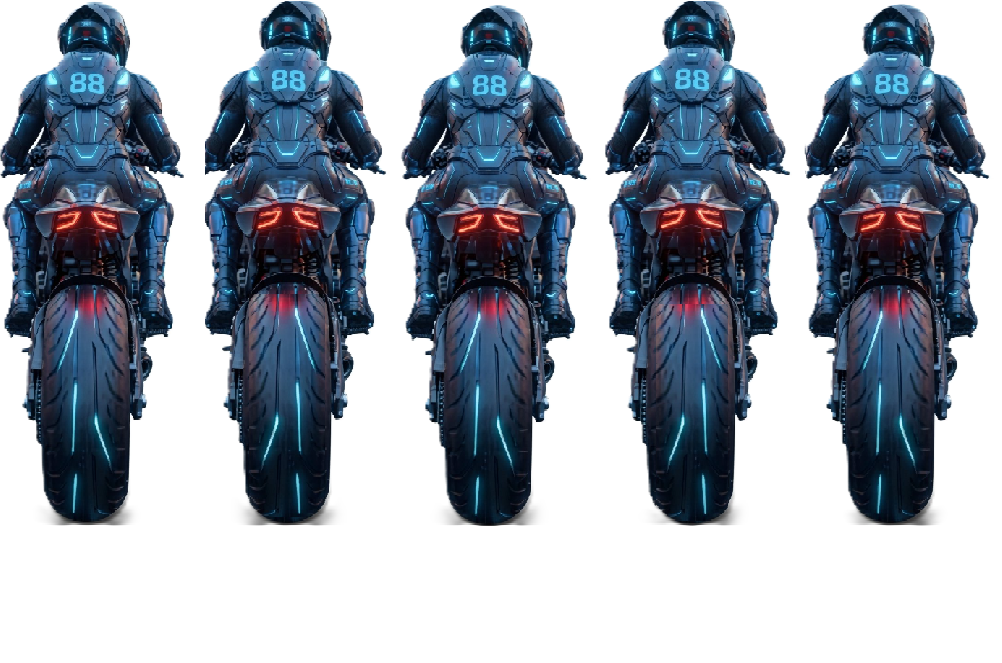
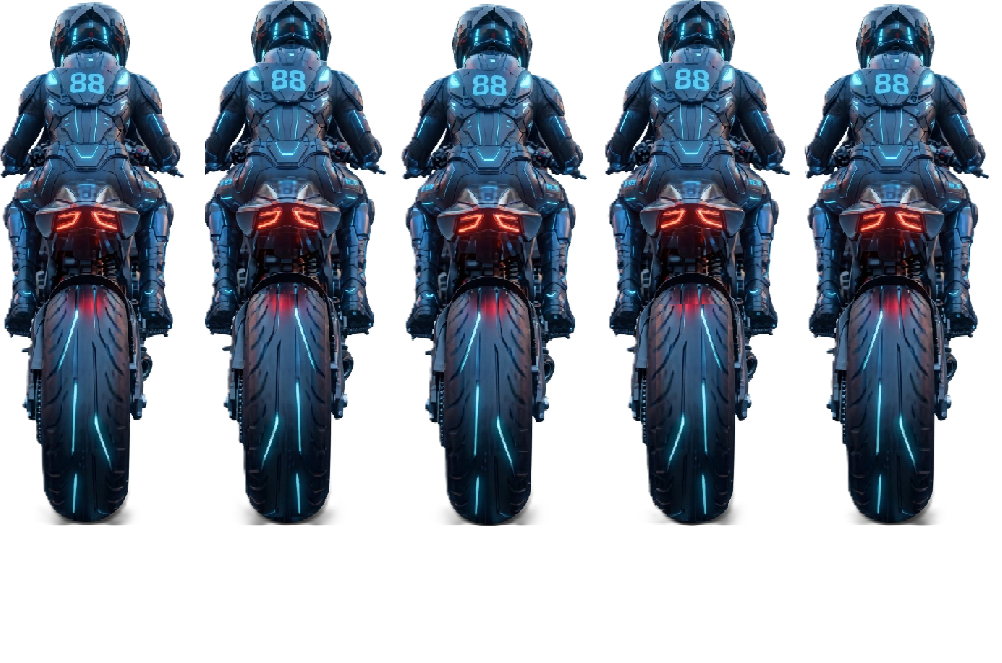
Add files via upload

diff --git a/duaxe.html b/duaxe.html
@@ -27,6 +27,26 @@ body { margin: 0; overflow: hidden; background: #0b1329; font-family: -apple-sys
 
 #flash-screen { position: fixed; top: 0; left: 0; width: 100vw; height: 100vh; background: rgba(255, 0, 0, 0); z-index: 99; pointer-events: none; transition: background 0.15s; }
 
+/* MÀN HÌNH BẮT ĐẦU (START SCREEN) ĐỂ KÍCH HOẠT GYRO VÀ ÂM THANH */
+#start-screen {
+position: fixed; top: 0; left: 0; width: 100vw; height: 100vh;
+background: radial-gradient(circle, #1e293b 0%, #0b1329 100%);
+z-index: 2000; display: flex; flex-direction: column; justify-content: center; align-items: center;
+padding: 20px; text-align: center; color: #fff;
+}
+.start-card {
+background: rgba(15, 23, 42, 0.9); border: 3px solid #d4af37; border-radius: 24px;
+padding: 30px; max-width: 420px; width: 100%; box-shadow: 0 0 40px rgba(212, 175, 55, 0.4);
+}
+.start-card h1 { font-size: 26px; color: #facc15; font-family: 'Ma Shan Zheng', cursive; margin-bottom: 10px; }
+.start-card p { font-size: 13px; color: #94a3b8; line-height: 1.6; margin-bottom: 20px; font-family: 'ZCOOL KuaiLe', cursive; }
+.guide-box { background: rgba(0,0,0,0.5); border: 1px solid #38bdf8; border-radius: 12px; padding: 12px; margin-bottom: 20px; text-align: left; font-size: 11px; color: #cbd5e1; line-height: 1.5; }
+.btn-start {
+background: linear-gradient(135deg, #d4af37, #b45309); color: #fff; border: 2px solid #fef08a;
+padding: 14px 28px; font-size: 18px; font-family: 'Ma Shan Zheng', cursive; font-weight: bold;
+border-radius: 14px; cursor: pointer; width: 100%; box-shadow: 0 4px 20px rgba(212, 175, 55, 0.5);
+}
+
 /* SPRITE NHÂN VẬT MÔ TÔ 5 KHUNG HÌNH (200x400px) */
 #character-sprite {
 position: absolute; bottom: 100px; left: 50%; transform: translateX(-50%);
@@ -84,6 +104,20 @@ font-size: 18px; font-family: 'Ma Shan Zheng', cursive; font-weight: bold; lette
 </head>
 <body>
 
+<!-- MÀN HÌNH BẮT ĐẦU XIN QUYỀN GYRO & ÂM THANH -->
+<div id="start-screen">
+<div class="start-card">
+<h1>🏍 MOTO GP 3D - BẮT NGỌC</h1>
+<p>Bứt tốc >160 km/h để săn lùng ngọc rồng huyền thoại!</p>
+<div class="guide-box">
+👉 <b>Bên Phải:</b> Kéo giữ để tăng ga.<br>
+⚙ <b>Bên Trái:</b> Vuốt lên/xuống để sang số (N ➔ 1 ➔ 2 ➔ 3 ➔ 4 ➔ 5).<br>
+📱 <b>Lái xe:</b> Nghiêng điện thoại sang trái/phải (Gyroscope).
+</div>
+<button class="btn-start interactive" onclick="startGameEngine()">KHỞI ĐỘNG & BẬT GYRO</button>
+</div>
+</div>
+
 <div id="dragon-modal">
 <div class="modal-content">
 <h2 id="modal-title">🌟 Kỳ Ngộ Viên Ngọc</h2>
@@ -119,8 +153,7 @@ font-size: 18px; font-family: 'Ma Shan Zheng', cursive; font-weight: bold; lette
 <div style="display: flex; justify-content: space-between; align-items: flex-start;">
 <div class="info-panel">
 <h1>🏍 Đua Xe Mô Tô GP</h1>
-<!-- CHỖ ĐỔI 1: SỬA 100 km/h THÀNH 160 km/h -->
-<p><span id="speed-display" style="color: #facc15; font-weight: bold;">Tốc độ: 0 km/h</span> | Đạt >200 km/h để bắt ngọc!</p>
+<p><span id="speed-display" style="color: #facc15; font-weight: bold;">Tốc độ: 0 km/h</span> | Đạt >160 km/h để bắt ngọc!</p>
 <div class="progress-container"><div id="distance-bar" class="progress-bar"></div></div>
 </div>
 <div class="status-badge">
@@ -140,7 +173,6 @@ let speedStage = 0;
 let fruitTimer = 0;
 let redFruitActive = false;
 
-// BIẾN ĐIỀU KHIỂN MÔ TÔ
 let throttle = 0;
 let gear = 0; // 0: N, 1-5
 let rpm = 1000;
@@ -161,10 +193,13 @@ bgMusic.play().catch(e => console.log("Audio autoplay waiting for interaction"))
 let audioCtx = null;
 let oscBass, oscTreble, engineGain;
 
-function initAudio() {
+function startGameEngine() {
+// Ẩn màn hình bắt đầu
+document.getElementById('start-screen').style.display = 'none';
+
+// 1. Kích hoạt Web Audio API & Nhạc nền
 if (!audioCtx) {
 audioCtx = new (window.AudioContext || window.webkitAudioContext)();
-
 playRandomMusic();
 
 oscBass = audioCtx.createOscillator();
@@ -188,7 +223,26 @@ engineGain.gain.setValueAtTime(0.25, audioCtx.currentTime);
 
 oscBass.start();
 oscTreble.start();
-initGyro();
+}
+
+// 2. Xin quyền Gyroscope (Cực kỳ quan trọng trên iOS Safari / HTTPS)
+if (typeof DeviceOrientationEvent !== 'undefined' && typeof DeviceOrientationEvent.requestPermission === 'function') {
+DeviceOrientationEvent.requestPermission().then(response => {
+if (response === 'granted') {
+window.addEventListener('deviceorientation', handleGyro);
+}
+}).catch(console.error);
+} else {
+window.addEventListener('deviceorientation', handleGyro);
+}
+}
+
+function handleGyro(e) {
+let gamma = e.gamma || 0; // Góc nghiêng trái phải (-90 đến 90)
+steerAngle = Math.max(-1, Math.min(1, gamma / 25));
+const sprite = document.getElementById('character-sprite');
+if (sprite) {
+sprite.style.transform = `translateX(-50%) rotate(${steerAngle * 18}deg) translateX(${steerAngle * 35}px)`;
 }
 }
 
@@ -243,33 +297,12 @@ osc.start(); osc.stop(audioCtx.currentTime + 0.3);
 }
 }
 
-// CẢM BIẾN GYROSCOPE (NGHIÊNG MÁY LÁI)
-function initGyro() {
-const handleGyro = (e) => {
-let gamma = e.gamma || 0;
-steerAngle = Math.max(-1, Math.min(1, gamma / 25));
-const sprite = document.getElementById('character-sprite');
-if (sprite) {
-sprite.style.transform = `translateX(-50%) rotate(${steerAngle * 18}deg) translateX(${steerAngle * 35}px)`;
-}
-};
-
-if (typeof DeviceOrientationEvent !== 'undefined' && typeof DeviceOrientationEvent.requestPermission === 'function') {
-DeviceOrientationEvent.requestPermission().then(res => {
-if (res === 'granted') window.addEventListener('deviceorientation', handleGyro);
-}).catch(console.log);
-} else {
-window.addEventListener('deviceorientation', handleGyro);
-}
-}
-
 // SỰ KIỆN CẢM ỨNG GA (PHẢI) VÀ SỐ (TRÁI)
 const rightZone = document.getElementById('right-zone');
 const leftZone = document.getElementById('left-zone');
 let startYRight = 0, startYLeft = 0;
 
 rightZone.addEventListener('touchstart', e => {
-initAudio();
 startYRight = e.touches[0].clientY;
 }, {passive: true});
 
@@ -281,7 +314,6 @@ if (deltaY > 5) throttle = Math.min(1, deltaY / 40);
 rightZone.addEventListener('touchend', () => { throttle = 0; });
 
 leftZone.addEventListener('touchstart', e => {
-initAudio();
 startYLeft = e.touches[0].clientY;
 }, {passive: true});
 
@@ -332,14 +364,6 @@ const fruitMesh = new THREE.Mesh(new THREE.SphereGeometry(0.7, 16, 16), fruitMat
 redFruitGroup.add(fruitMesh);
 scene.add(redFruitGroup);
 redFruitGroup.visible = false;
-
-function spawnRedFruit() {
-let tZ = playerGroup.position.z - 80;
-let tRoadY = getRoadHeightAtZ(tZ);
-redFruitGroup.position.set(getRoadCurveAtZ(tZ), tRoadY + 3.5, tZ);
-redFruitGroup.visible = true;
-redFruitActive = true;
-}
 
 // Viên Ngọc Rồng
 const dragonGroup = new THREE.Group();
@@ -612,11 +636,8 @@ break;
 }
 
 let distanceToDragonZ = Math.abs(playerGroup.position.z - dragonGroup.position.z);
-
 let diffX = Math.abs(playerGroup.position.x - dragonGroup.position.x);
-
-// CHỖ ĐỔI 2: ĐỔI ĐIỀU KIỆN TỐC ĐỘ TỪ 100 SANG 160 KM/H
-let catchCondition = (currentSpeedKmh > 203) && (distanceToDragonZ < 40);
+let catchCondition = (currentSpeedKmh > 160) && (distanceToDragonZ < 40);
 
 if (diffX < 20 && catchCondition) {
 playSound('catch');
